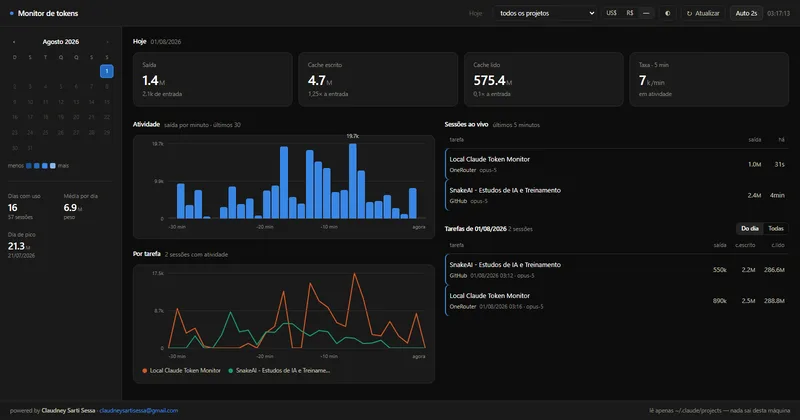
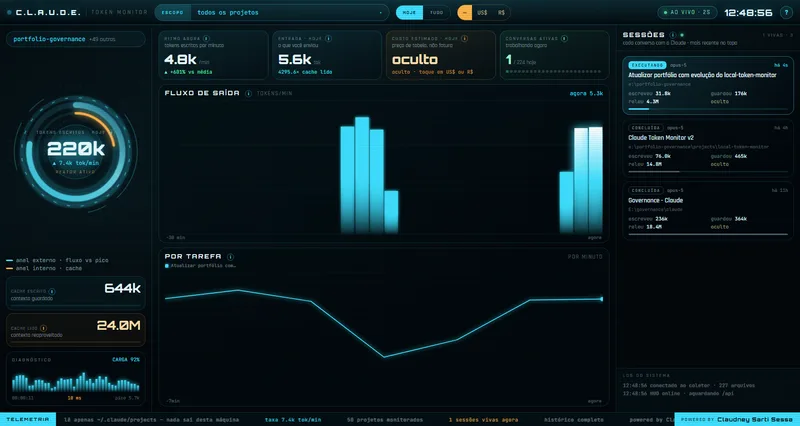
feat: atualiza o card do Local Token Monitor para a versão com HUD e Docker
O card ainda descrevia só o painel de arquivo único. A descrição passa a citar as
duas telas na mesma porta — o HUD escuro que atualiza a cada dois segundos e o
painel de trabalho com calendário do mês e atribuição por tarefa pelo título real
da sessão — e a execução em Docker, que é o que permite acompanhar do tablet pelo
IP da rede local. Docker entra também nas tags dos dois idiomas.

A nota ganha a promessa que o projeto faz e o card não dizia: nada sai do disco,
sem proxy, sem chave de API, sem conta, sem uma única requisição de rede. O motivo
de não haver demonstração pública continua declarado ali.

O print foi refeito com o coletor no ar, no estado de abertura do HUD. A mídia que
o autor tinha capturado estava em modo demo, com números gerados pelo próprio HUD.

diff --git a/assets/projects.js b/assets/projects.js
@@ -194,18 +194,18 @@ window.PF_PROJECTS = {
       "demoUrl": null,
       "codeUrl": "https://github.com/claudneysessa/local-token-monitor",
       "tags": {
-        "pt": ["Python", "Só biblioteca padrão", "Leitura local", "Claude Code"],
-        "en": ["Python", "Standard library only", "Local-only", "Claude Code"]
+        "pt": ["Python", "Só biblioteca padrão", "Leitura local", "Docker", "Claude Code"],
+        "en": ["Python", "Standard library only", "Local-only", "Docker", "Claude Code"]
       },
       "pt": {
         "name": "Local Token Monitor",
-        "desc": "Painel que responde quando e em qual tarefa o consumo de tokens do Claude Code acontece, lendo os arquivos de sessão da própria máquina. Só biblioteca padrão: baixar um arquivo e rodar.",
-        "note": "Sem demonstração pública, e de propósito: o painel lê o histórico de quem executa, então uma instância hospedada não teria dado nenhum."
+        "desc": "Painel que responde quando e em qual tarefa o consumo de tokens do Claude Code acontece, lendo os arquivos de sessão da própria máquina. Duas telas na mesma porta: um HUD escuro de cockpit que atualiza a cada dois segundos, e o painel de trabalho com calendário do mês e atribuição por tarefa pelo título real da sessão. Só biblioteca padrão: baixar um arquivo e rodar, ou subir em Docker e acompanhar do tablet pelo IP da rede local.",
+        "note": "Sem demonstração pública, e de propósito: o painel lê o histórico de quem executa, então uma instância hospedada não teria dado nenhum. Nada sai do disco — sem proxy, sem chave de API, sem conta, sem uma única requisição de rede."
       },
       "en": {
         "name": "Local Token Monitor",
-        "desc": "Dashboard that answers when and on which task your Claude Code token usage happens, by reading the session files on your own machine. Standard library only: download one file and run it.",
-        "note": "No public demo, by design: the dashboard reads the history of whoever runs it, so a hosted instance would have no data at all."
+        "desc": "Dashboard that answers when and on which task your Claude Code token usage happens, by reading the session files on your own machine. Two screens on the same port: a dark cockpit HUD that refreshes every two seconds, and the working dashboard with a monthly calendar and per-task attribution by the session's real title. Standard library only: download one file and run it, or bring it up in Docker and watch from a tablet over your local network.",
+        "note": "No public demo, by design: the dashboard reads the history of whoever runs it, so a hosted instance would have no data at all. Nothing leaves your disk — no proxy, no API key, no account, not a single network request."
       }
     },
     "paygo_sdk": {
